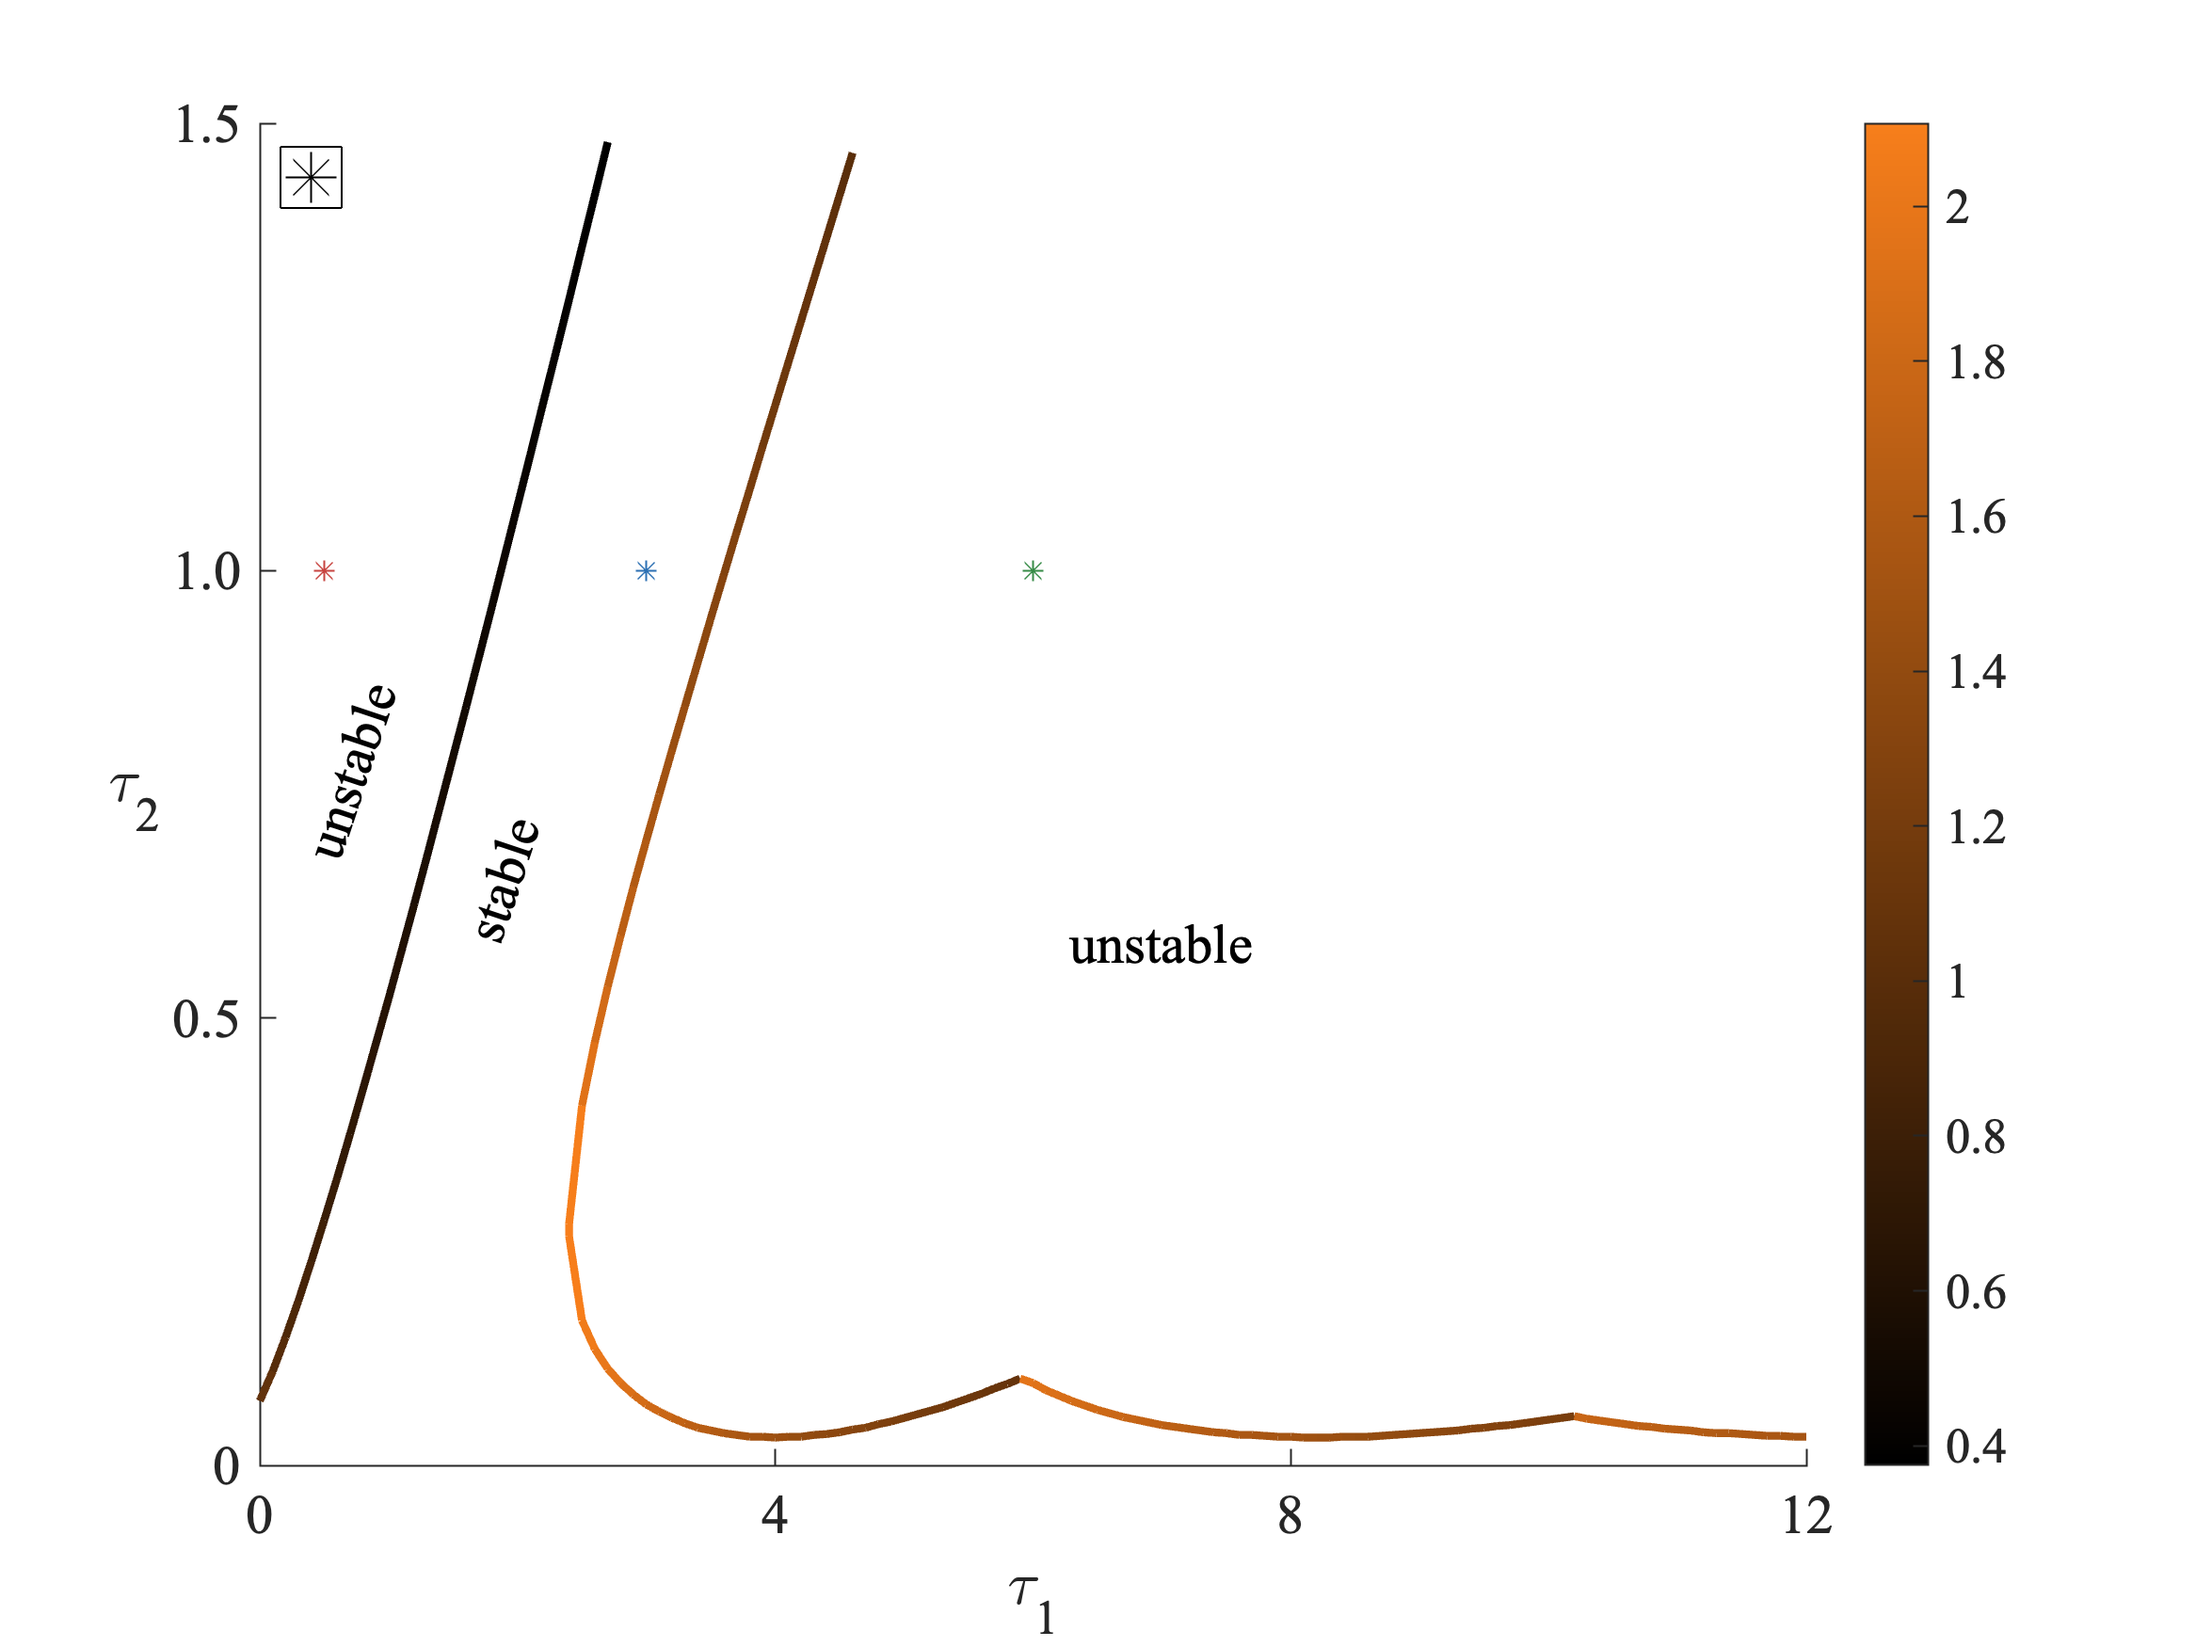
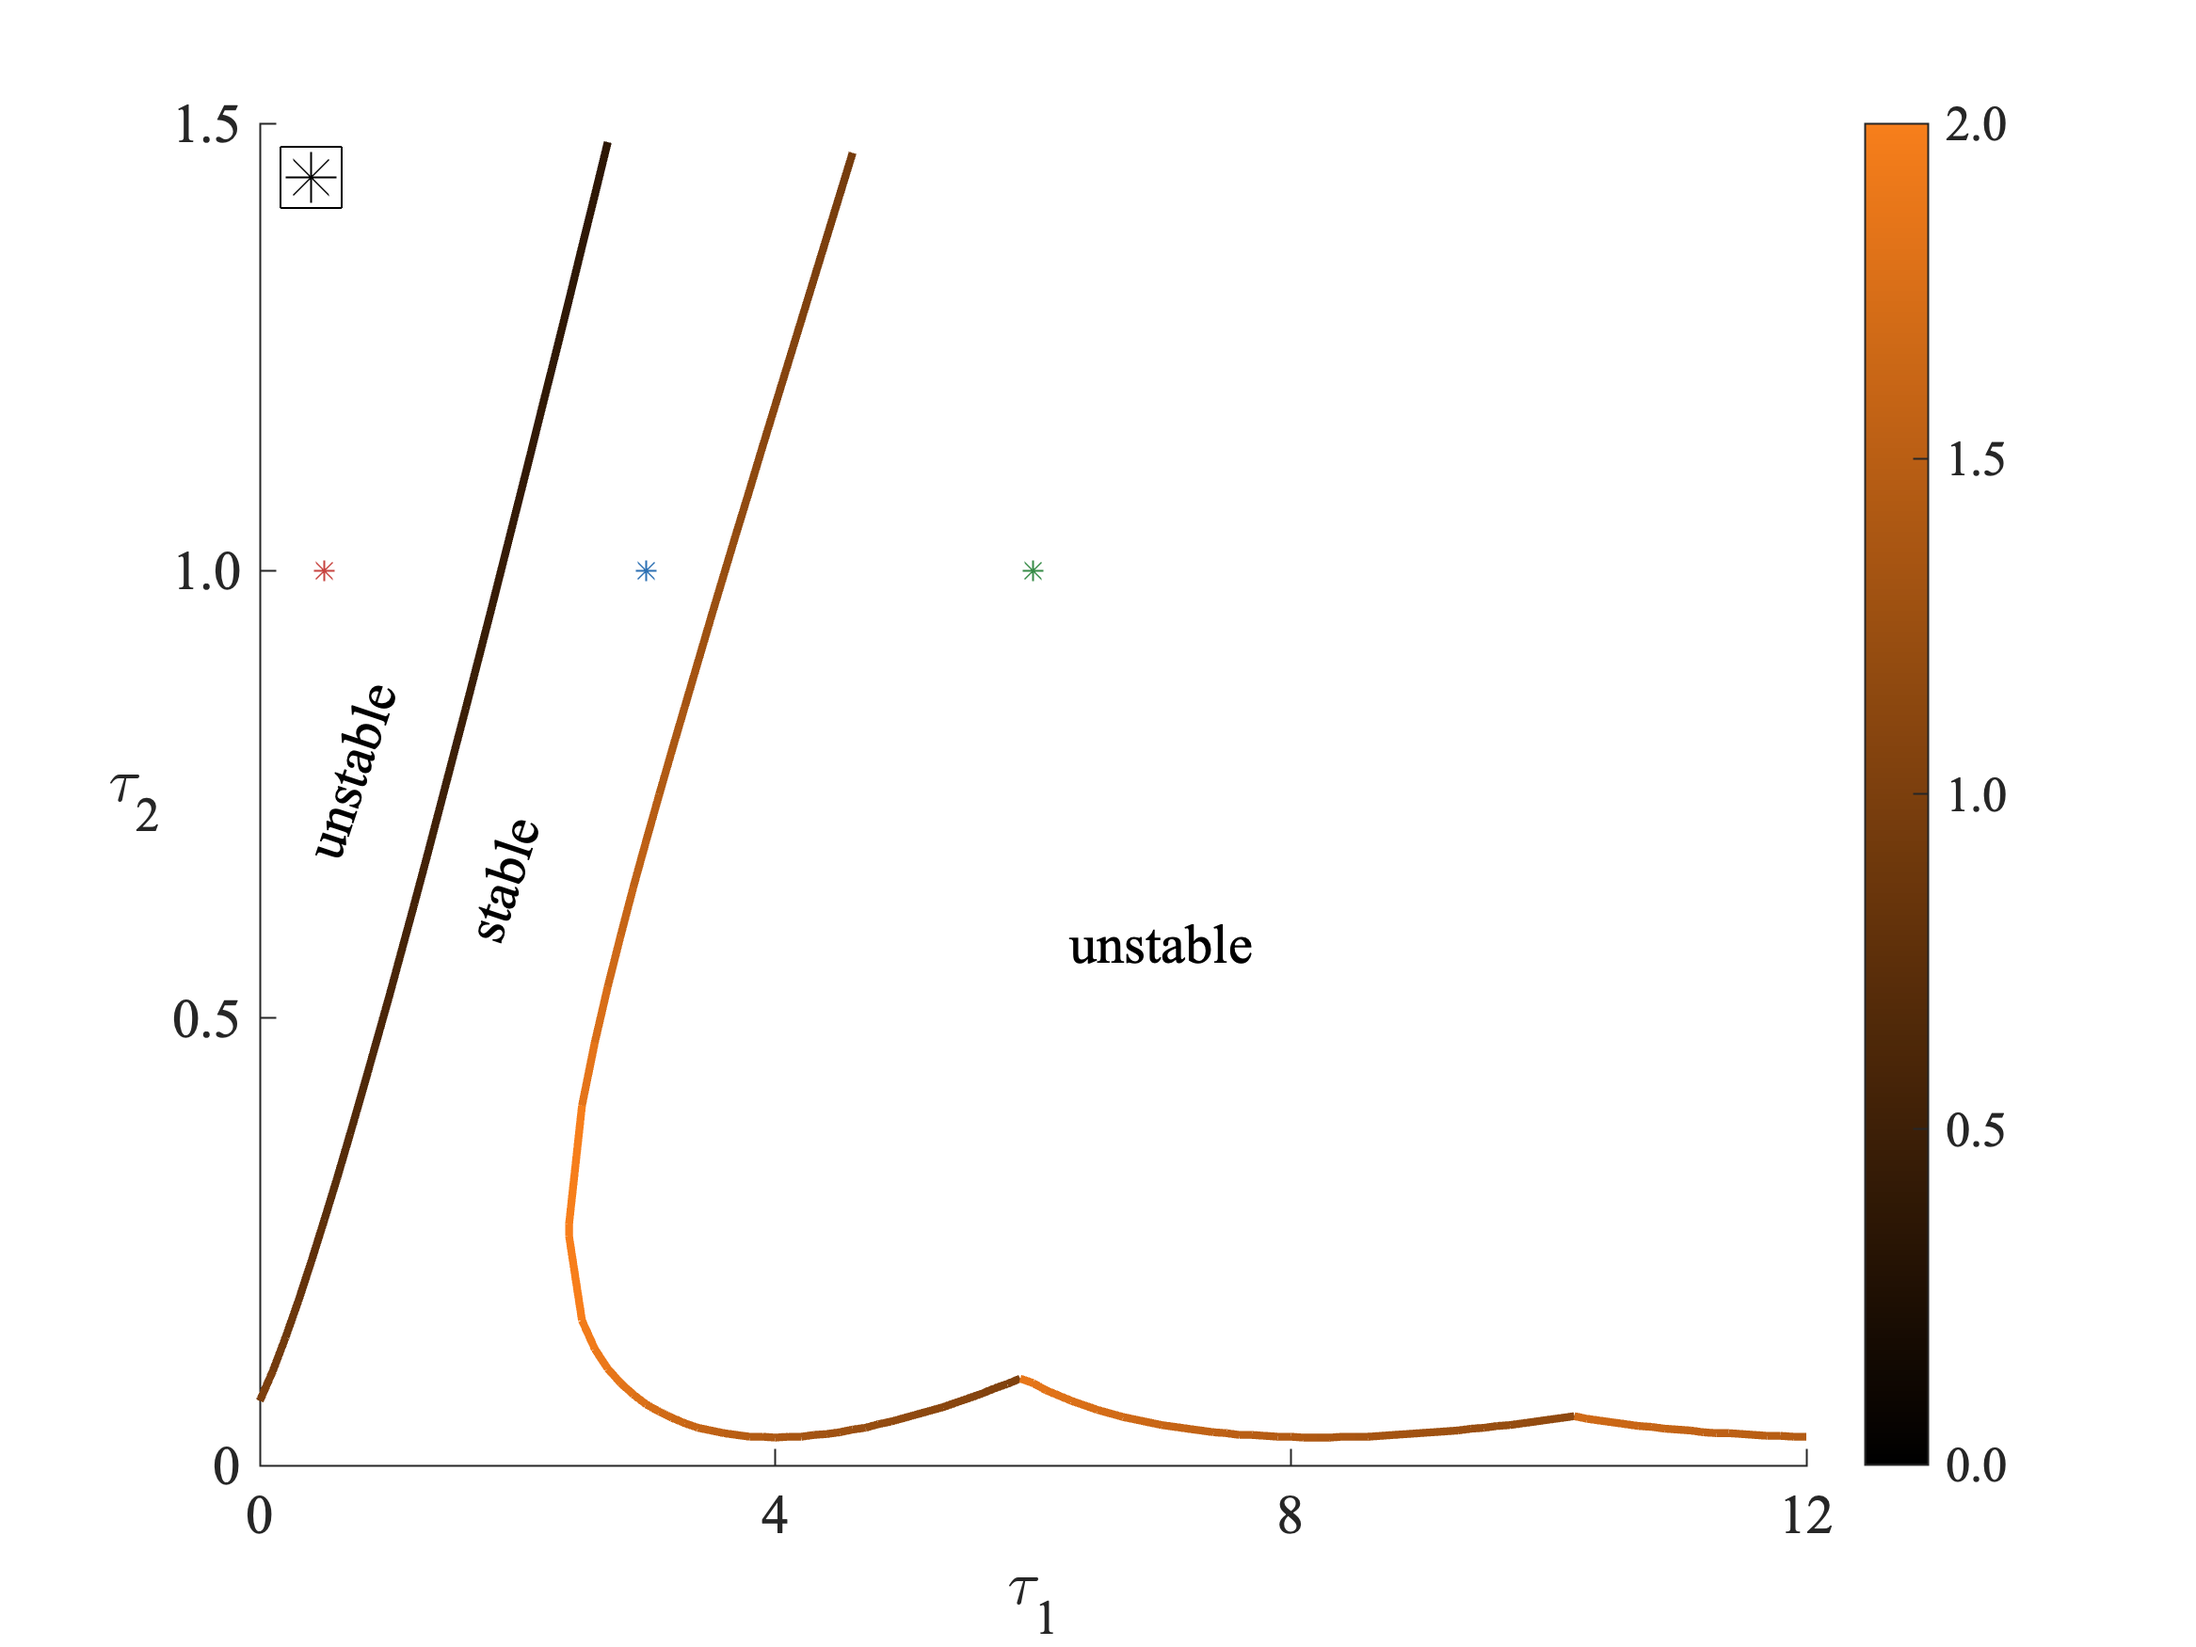
Minor fig 3 updates

diff --git a/Code/delay_wilson_cowan.m b/Code/delay_wilson_cowan.m
@@ -271,7 +271,7 @@ clf; hold on;
 p.c_palette = customColourPalette(["000000"; "f77e1b"]);
 
 % Define omega range
-omega.min = min(cellfun(@min, bifn.omegas));
+omega.min = 0;
 omega.max = max(cellfun(@max, bifn.omegas));
 
 % Plot first bifurcation line
@@ -333,8 +333,11 @@ set(gca,'fontsize', 14, 'fontname', 'times');
 
 % Add a colour bar for reference
 colormap(p.c_palette);
-clim([omega.min omega.max]);
+clim([0 2]);
 colorbar;
+set(colorbar, ...
+    'Ticks', 0:0.5:2, ...
+    'TickLabels', {'0.0', '0.5', '1.0', '1.5', '2.0'});
 clear omega
 
 % Add annotations
